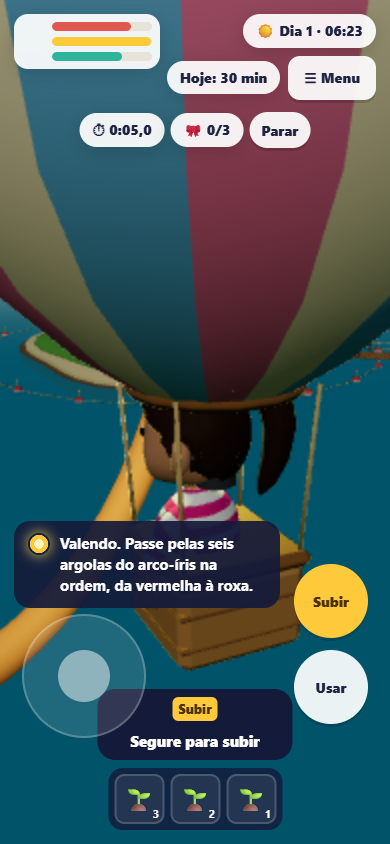
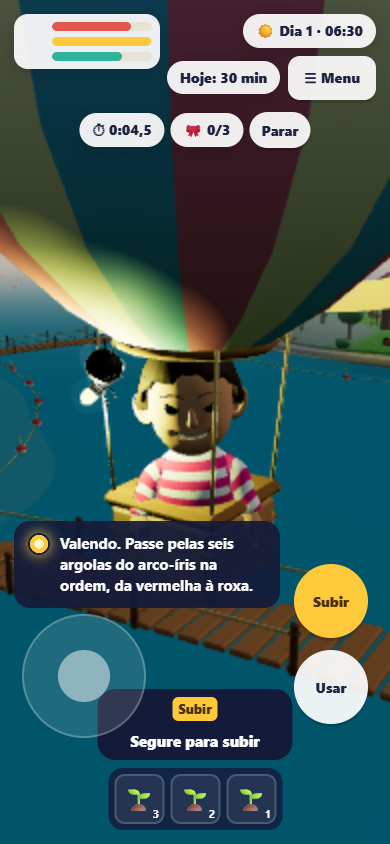
test(arquipelago): pilotos do balão sobem antes de ir para a argola, com o balão novo junto do poste
- Com a âncora balao nova (perto do poste e dos lampiões), o piloto do teste da corrida e o do
  verificador da aventura subiam em linha reta até a argola vermelha cruzando o poste do lampião.
  Agora sobem primeiro em cima do lugar do balão. Nenhuma regra do jogo mudou.
- Verificadores do balão e da aventura das Nuvens aprovados de novo no computador e no celular
  emulado com a arte nova; prints refeitos.

diff --git a/packages/arquipelago/playground/verificar-nuvens-aventura-browser.ts b/packages/arquipelago/playground/verificar-nuvens-aventura-browser.ts
@@ -294,6 +294,10 @@ async function diaNasNuvens(context: BrowserContext, celular: boolean, tipo: str
     if (!g) throw new Error(`Sem a argola ${i}`)
     return { x: g.x + Math.sin(g.rumo) * metros, y: g.y, z: g.z + Math.cos(g.rumo) * metros }
   }
+  // Primeiro sobe em cima do lugar do balão (os lampiões ficam perto do poste), depois vai.
+  const primeira = argolas[0]
+  if (!primeira) throw new Error('Sem a argola vermelha')
+  await pilotar({ x: casa.x, y: primeira.y + 3, z: casa.z })
   await pilotar(antesE(0, -3))
   await pilotar(antesE(0, 3))
   await page.getByRole('timer', { name: 'Corrida de balão' }).waitFor()

diff --git a/packages/arquipelago/tests/corrida-de-balao.test.ts b/packages/arquipelago/tests/corrida-de-balao.test.ts
@@ -170,7 +170,9 @@ describe('a volta das argolas no arquivo', () => {
       y: g.y,
       z: g.z + Math.cos(g.rumo) * m,
     })
-    const alvos: Ponto[] = []
+    // Primeiro sobe em cima do lugar do balão (os lampiões ficam perto do poste), depois vai.
+    const primeira = argolas[0] as Argola
+    const alvos: Ponto[] = [{ x: casa.x, y: primeira.y + 3, z: casa.z }]
     for (const [i, g] of argolas.entries()) {
       alvos.push(antesE(g, -3), antesE(g, 3))
       const f = fitas[[0, 2, 4].indexOf(i)]
